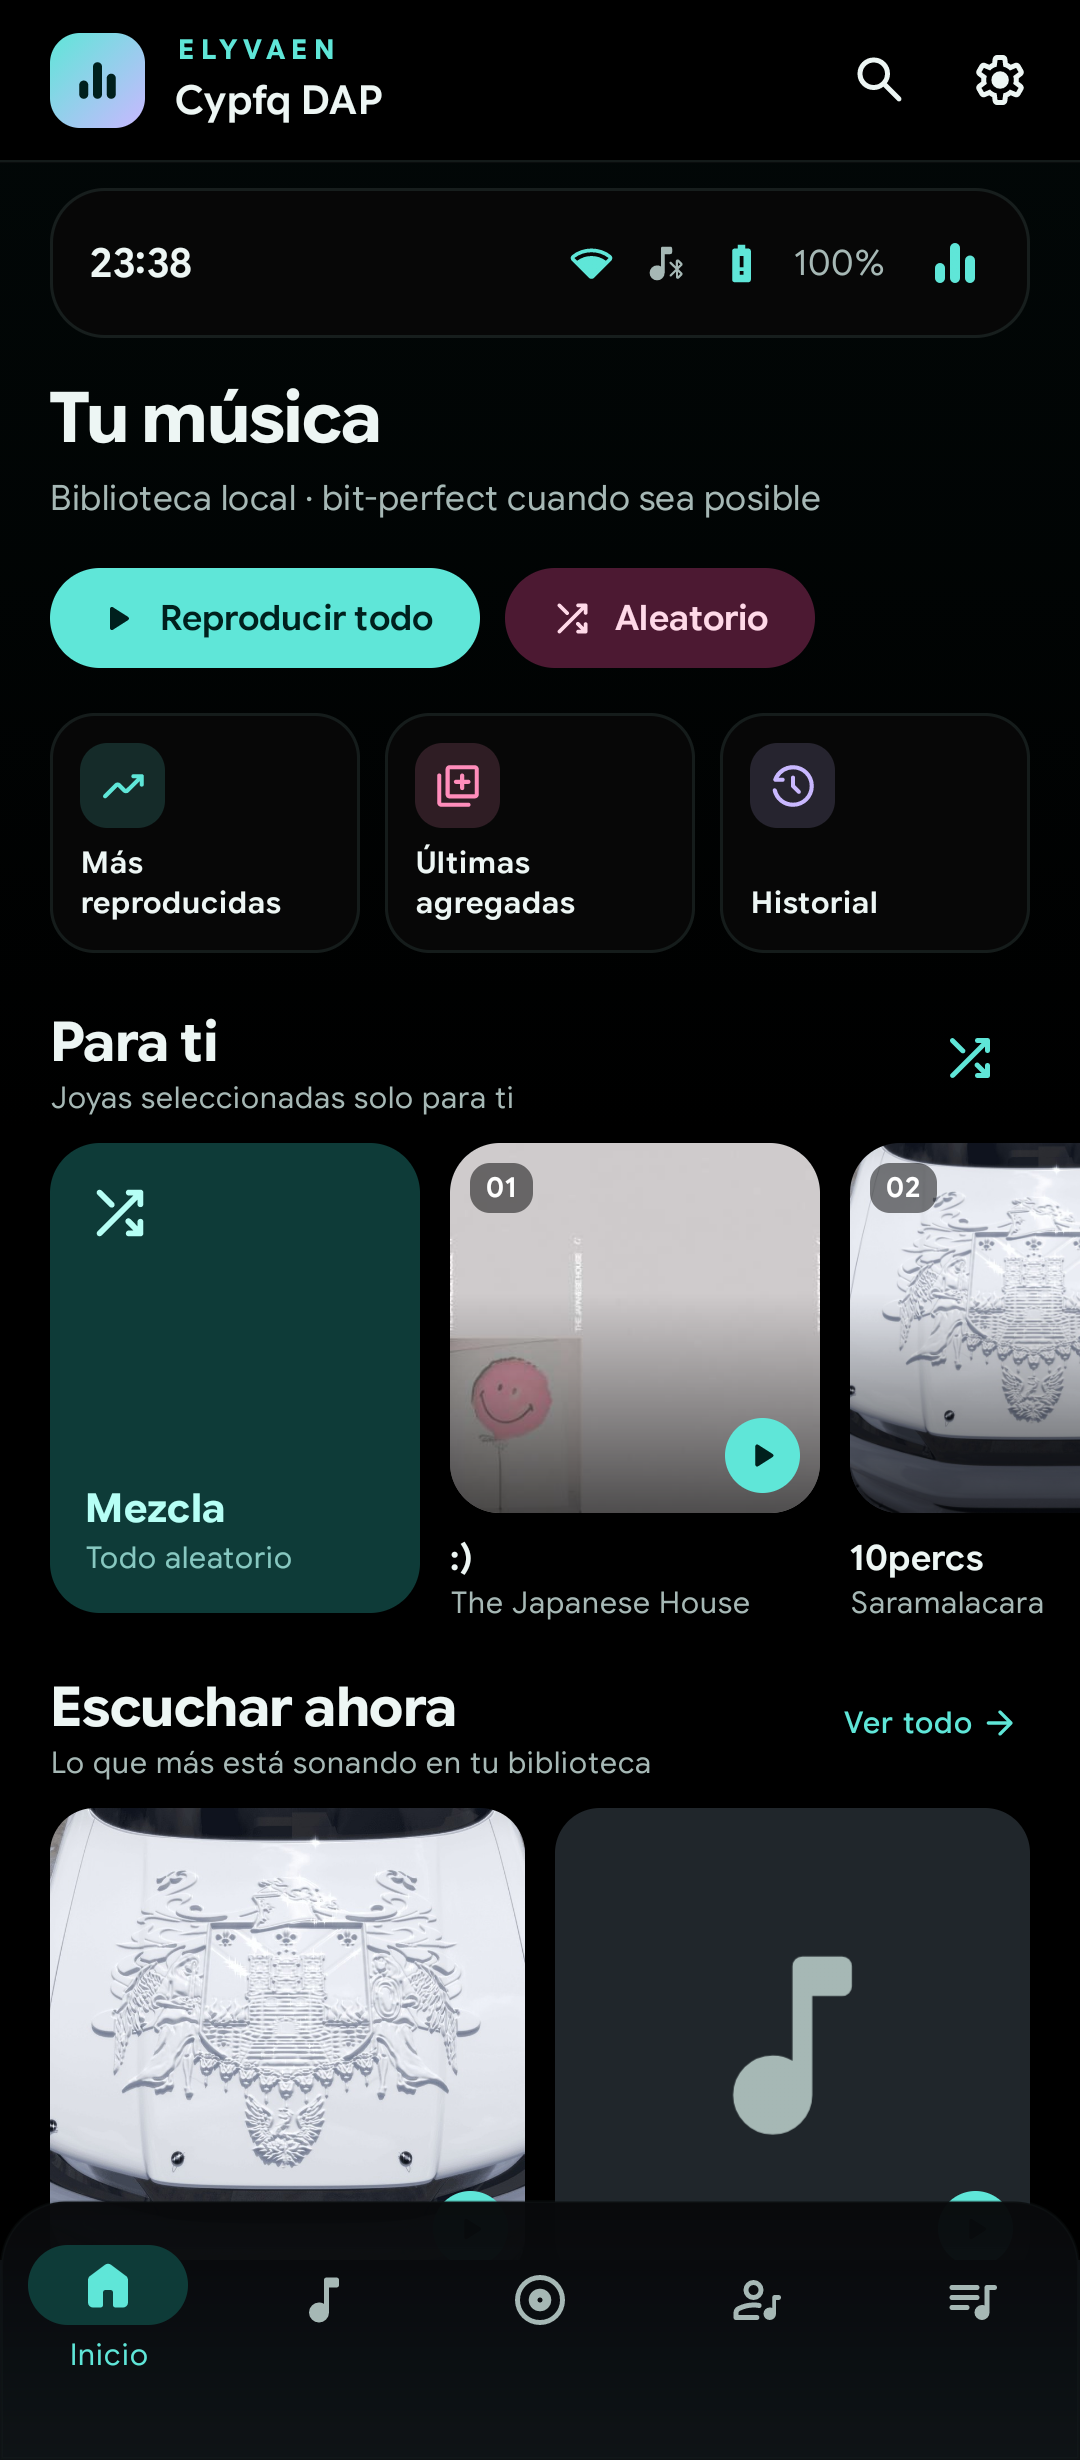
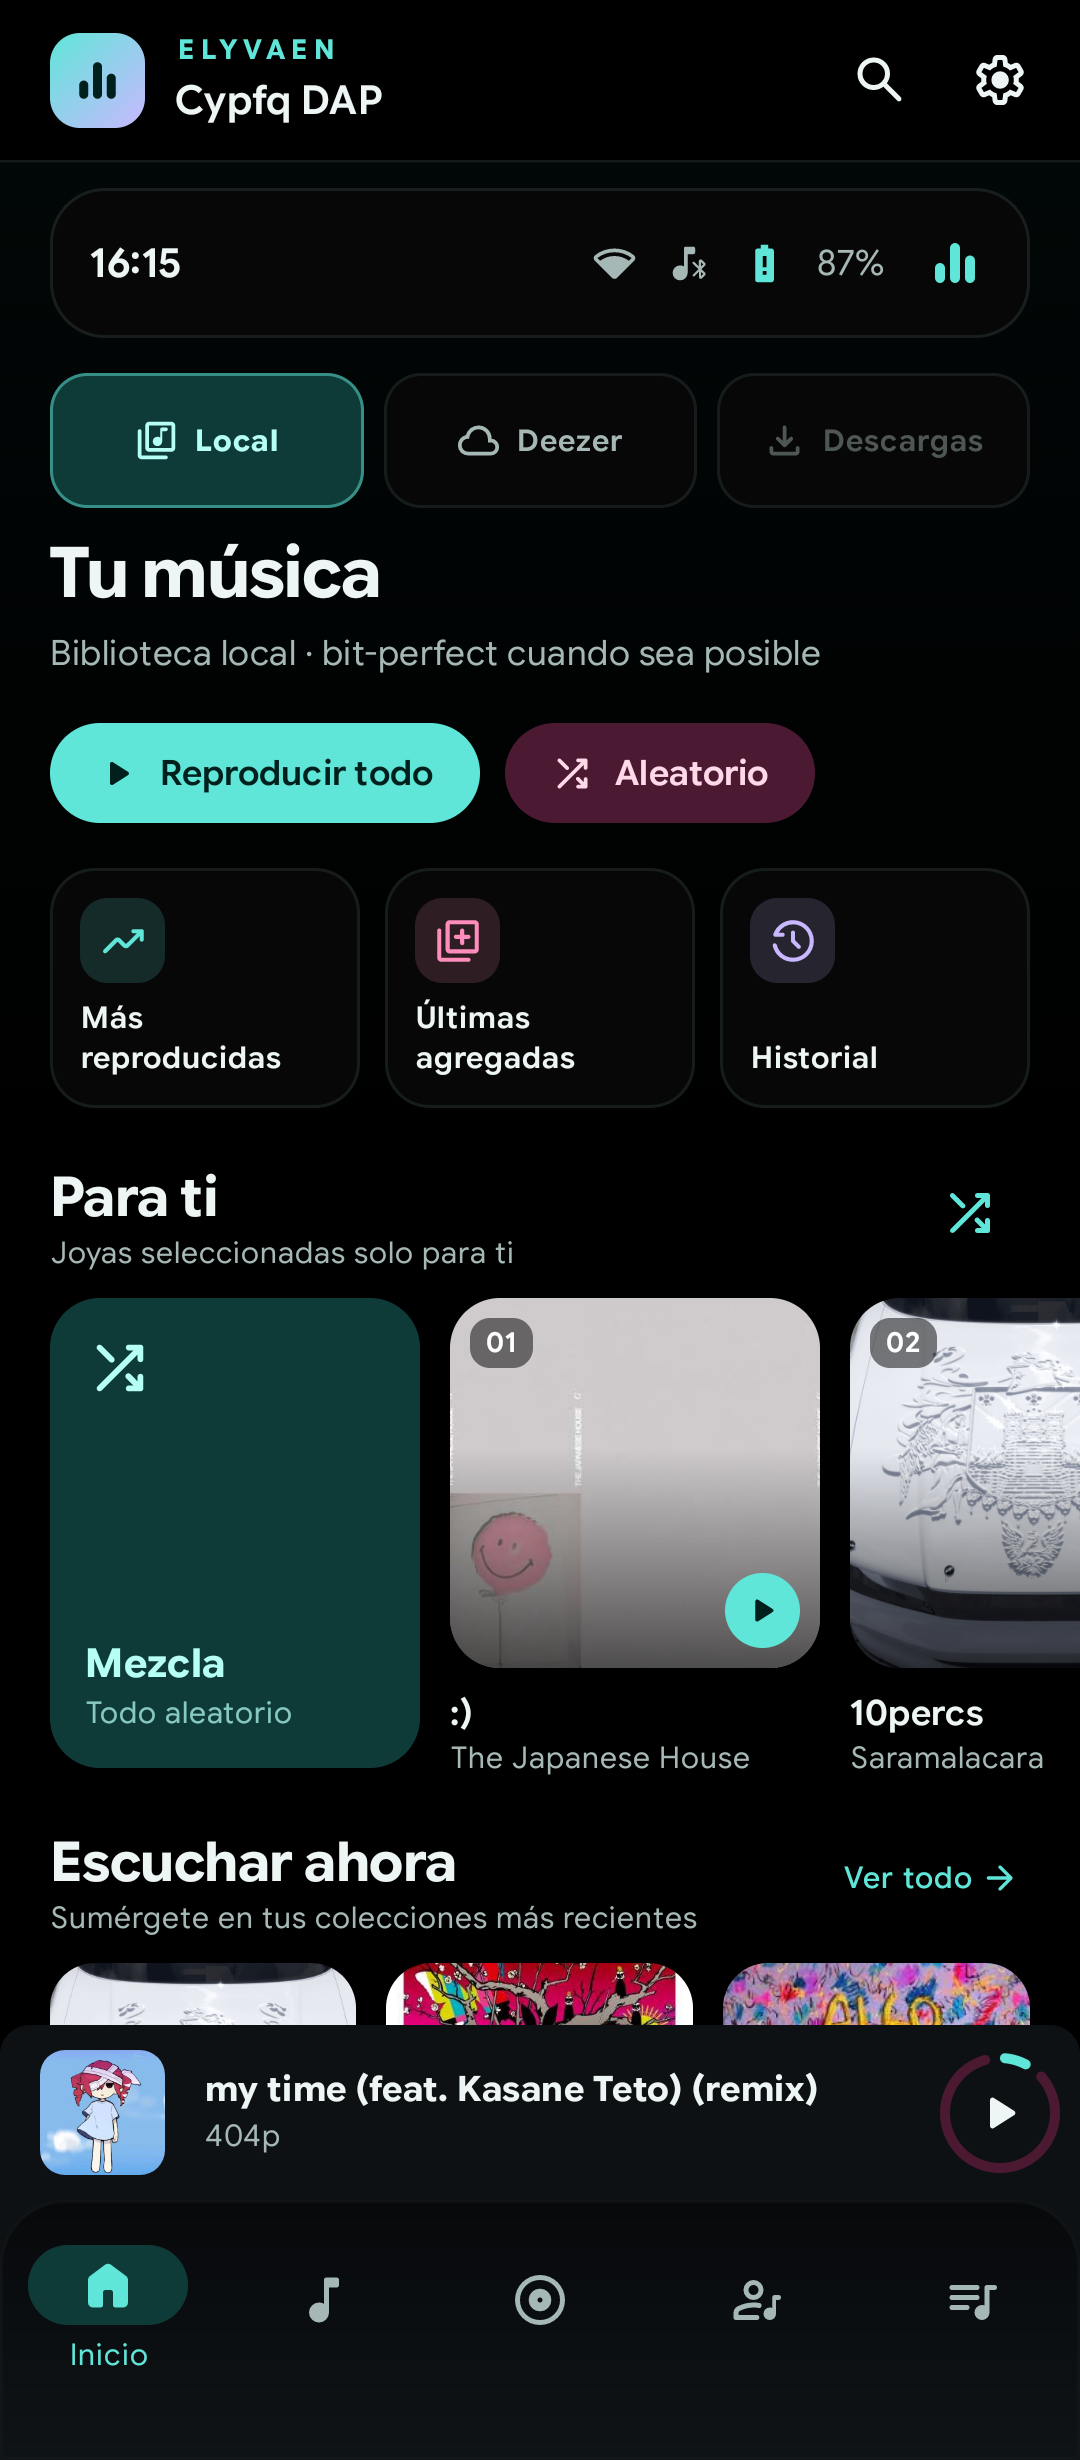
perf(deezer): harden private client parsing and download progress

diff --git a/ElyvaenMusic/app/src/main/java/com/mardous/booming/data/remote/deezer/DeezerPrivateClient.kt b/ElyvaenMusic/app/src/main/java/com/mardous/booming/data/remote/deezer/DeezerPrivateClient.kt
@@ -311,14 +311,12 @@ class DeezerPrivateClient(
             ?.contentOrNull
     }
 
-    private fun preferredFormats(): List<String> {
-        val options = account?.plan
-        return when (options) {
-            "HiFi" -> listOf("FLAC_24", "FLAC", "MP3_320", "MP3_128")
-            "Premium" -> listOf("MP3_320", "MP3_128")
-            else -> listOf("MP3_128")
-        }
-    }
+    private fun preferredFormats(): List<String> = listOf(
+        "FLAC_24",
+        "FLAC",
+        "MP3_320",
+        "MP3_128"
+    )
 
     private fun gw(method: String, body: JsonObject): JsonObject {
         return gwRaw(method, apiToken, body)

diff --git a/docs/ui-v2.md b/docs/ui-v2.md
@@ -60,11 +60,14 @@ Estado: **fase 1 y 2 implementadas y verificadas en el Moto G51** (2026-11-17).
 
 ## Capturas
 
-- `screens/home.png` — Home con “Para ti”, estado DAP y mini player.
+- `screens/home.png` — Home con selector Local/Deezer/Descargas y mini player.
 - `screens/home-foryou.png` — sección “Para ti” con carrusel de canciones.
 - `screens/player.png` — player Elyvaen con favorito, portada y próxima pista.
-- `screens/library-songs.png` — biblioteca de canciones.
+- `screens/library-songs.png` — biblioteca de canciones con filas tipo tarjeta.
 - `screens/library-albums.png` — biblioteca de álbumes.
+- `screens/library-genres.png` — cabecera editorial y rejilla de géneros.
+- `screens/deezer-offline.png` — pantalla Deezer sin red (el DAP estaba en modo avión).
+- `screens/deezer-connect.png` — diálogo de conexión por cookie ARL.
 - `screens/settings.png` — ajustes.
 - `screens/queue.png` — cola.
 - `screens/lyrics.png` — letras.
@@ -135,6 +138,19 @@ Pendiente de verificar en el dispositivo (se desconectó ADB durante el día):
 
 Esto cambia canciones, carpetas, playlists, búsqueda y listas de detalle de
 álbum/artista, no solo el Home y el player.
+
+## Verificado en dispositivo (2026-11-21)
+
+- Home con fuente `Local · Deezer · Descargas`.
+- Biblioteca de canciones como tarjetas redondeadas.
+- Cabecera de géneros en mayúsculas, alineada a la izquierda y con degradado.
+- **Mini-player corregido**: sus bounds terminan en `y=2200`, justo donde empieza
+  la barra inferior; ya no se solapan.
+- **90 Hz activos**: `dumpsys display` reporta `modeId 3` (90 Hz).
+- Pantalla Deezer y diálogo ARL abiertos sin crash.
+- El catálogo Deezer no se pudo validar porque el DAP estaba en **modo avión**
+  y la Wi-Fi no estaba conectada; la pantalla mostró correctamente el error de
+  conexión y el botón Reintentar.
 
 ## Pendiente / siguiente iteración
 

diff --git a/docs/ecosystem-roadmap.md b/docs/ecosystem-roadmap.md
@@ -256,9 +256,11 @@ Se añadió la base del proveedor privado, siguiendo el enfoque de Sonora:
 - Es una integración **no oficial**; puede romperse si Deezer cambia el web
   player. El ARL es personal y no se registra en logs.
 
-No se pudo validar el flujo completo sin el ARL del usuario ni con el móvil
-conectado. El catálogo público y las previews sí están compilados y listos
-para probar.
+Verificado el 2026-11-21: la navegación a Deezer, el estado offline y el
+diálogo ARL funcionan en el Moto G51. El catálogo público, las previews y las
+descargas no se pudieron probar porque el DAP estaba en modo avión y sin
+Wi-Fi; el ARL del usuario todavía no está configurado. La build release quedó
+instalada y el mini-player/90 Hz verificados.
 
 ## Decisiones pendientes
 
